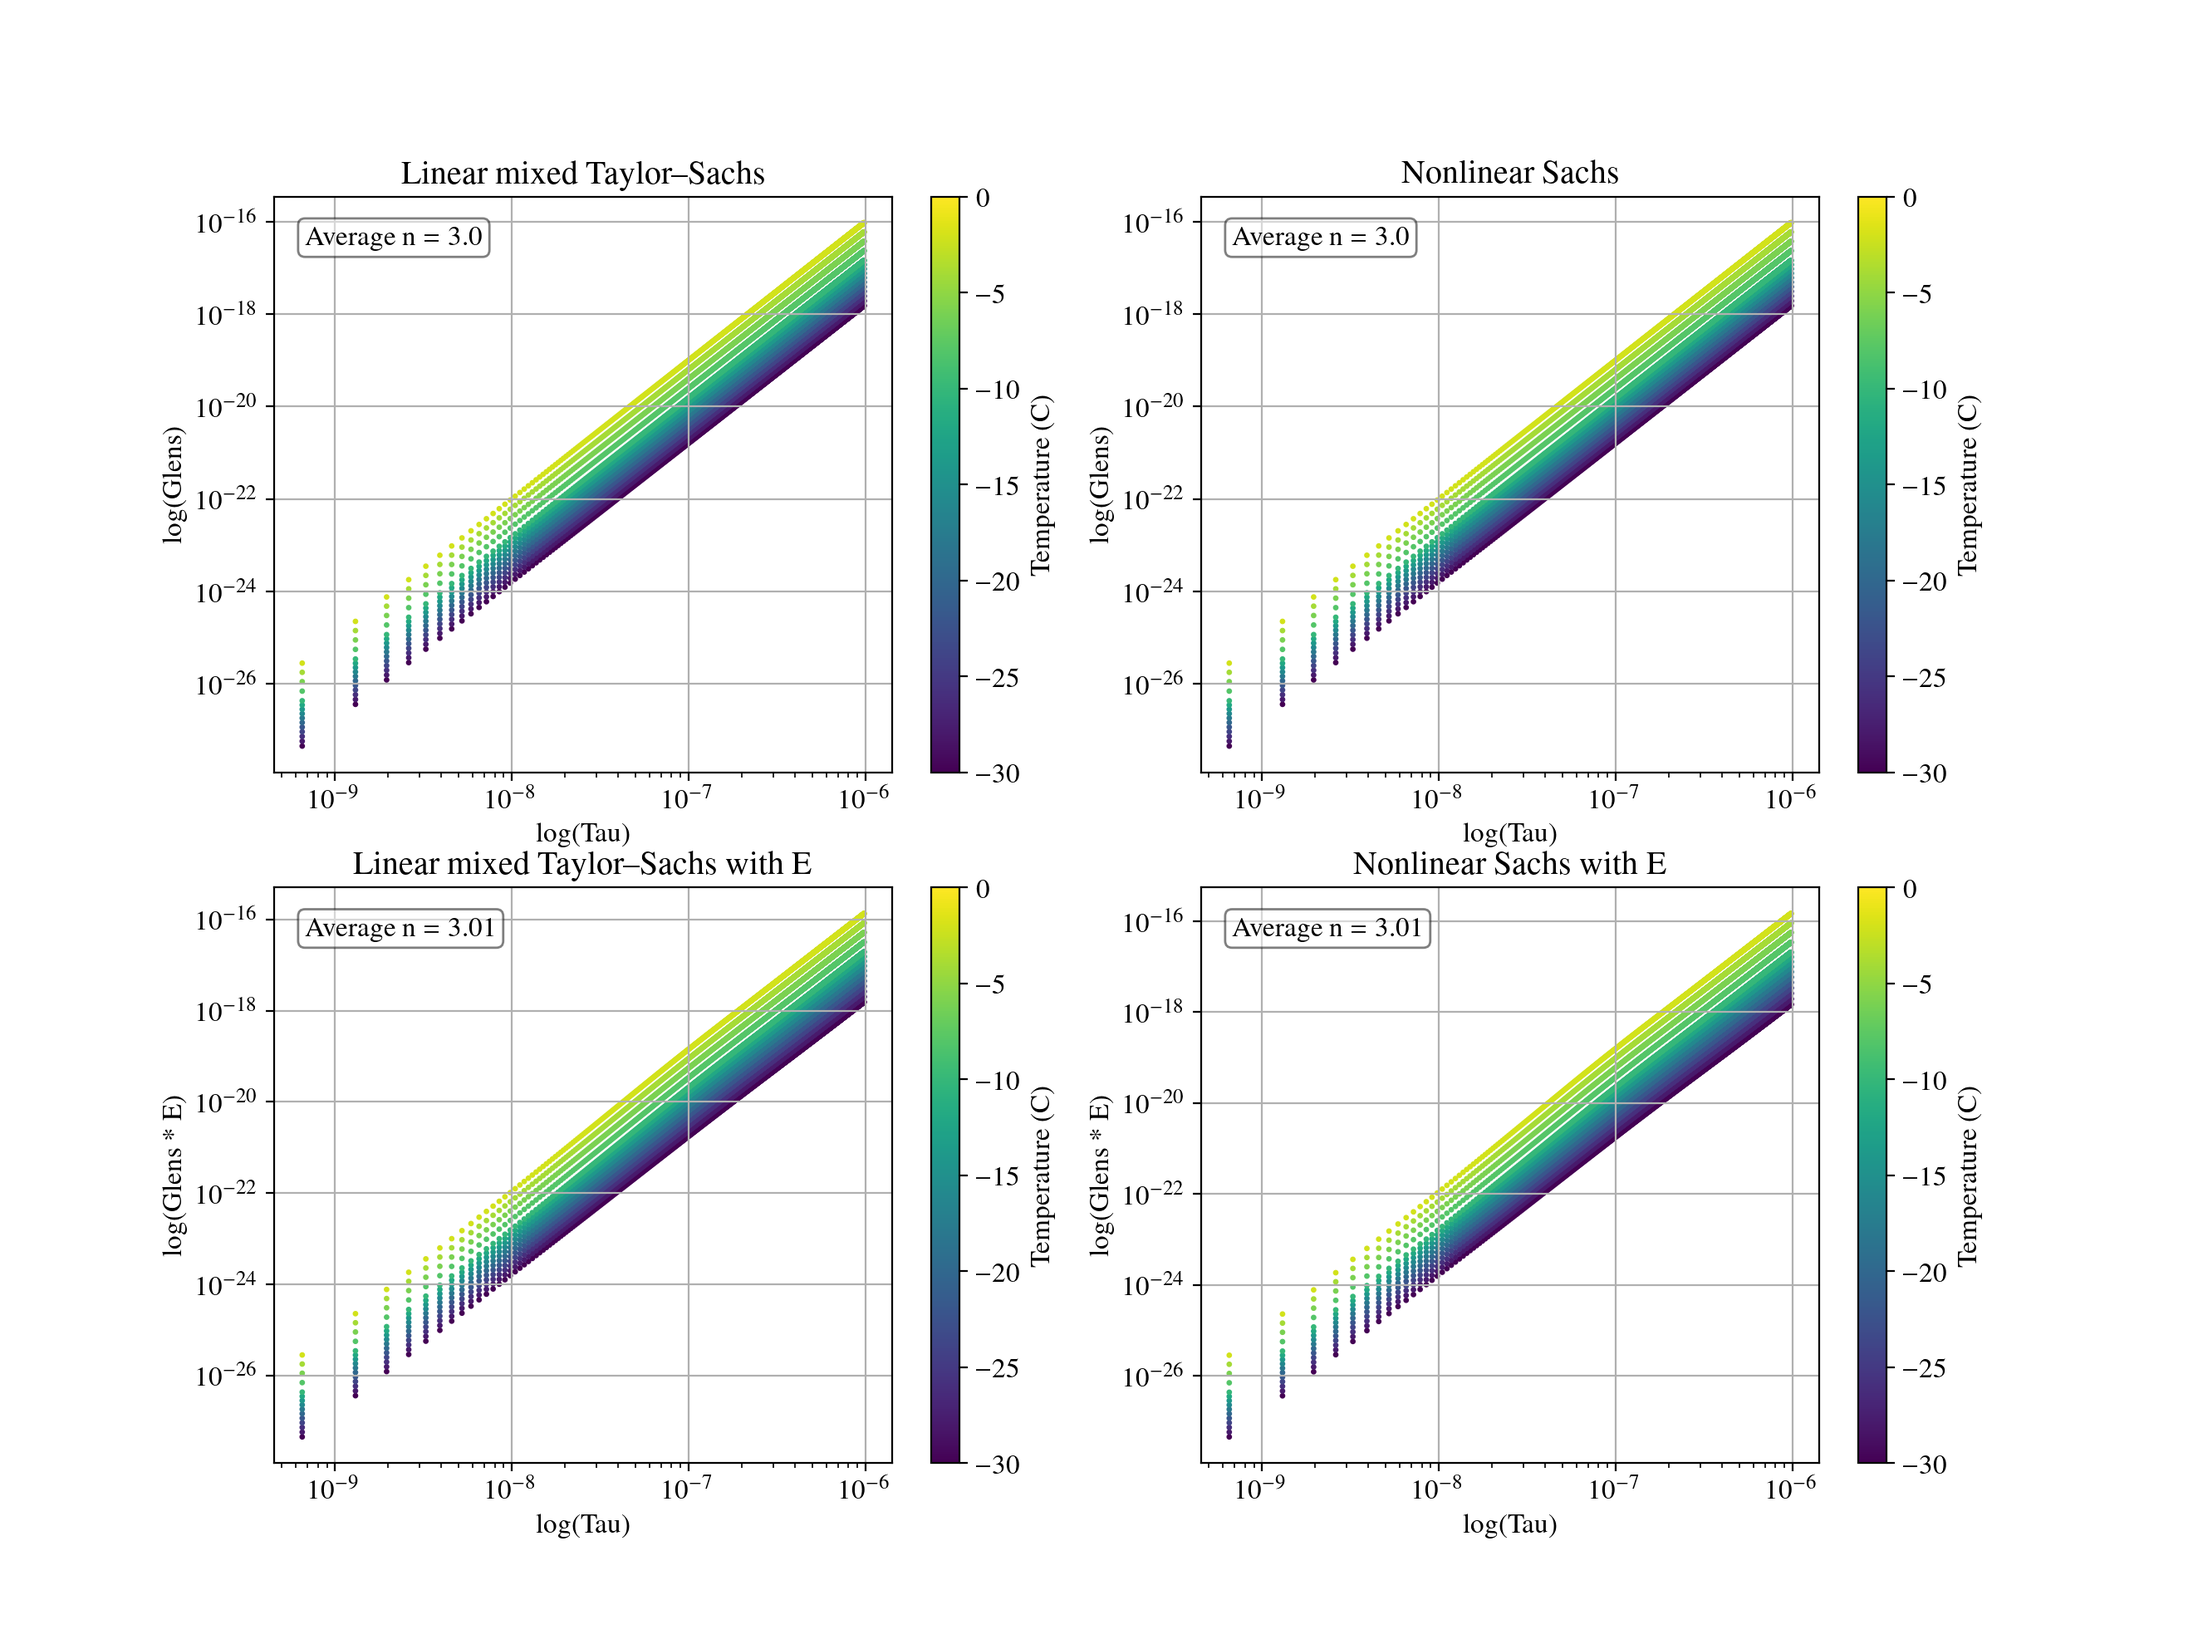
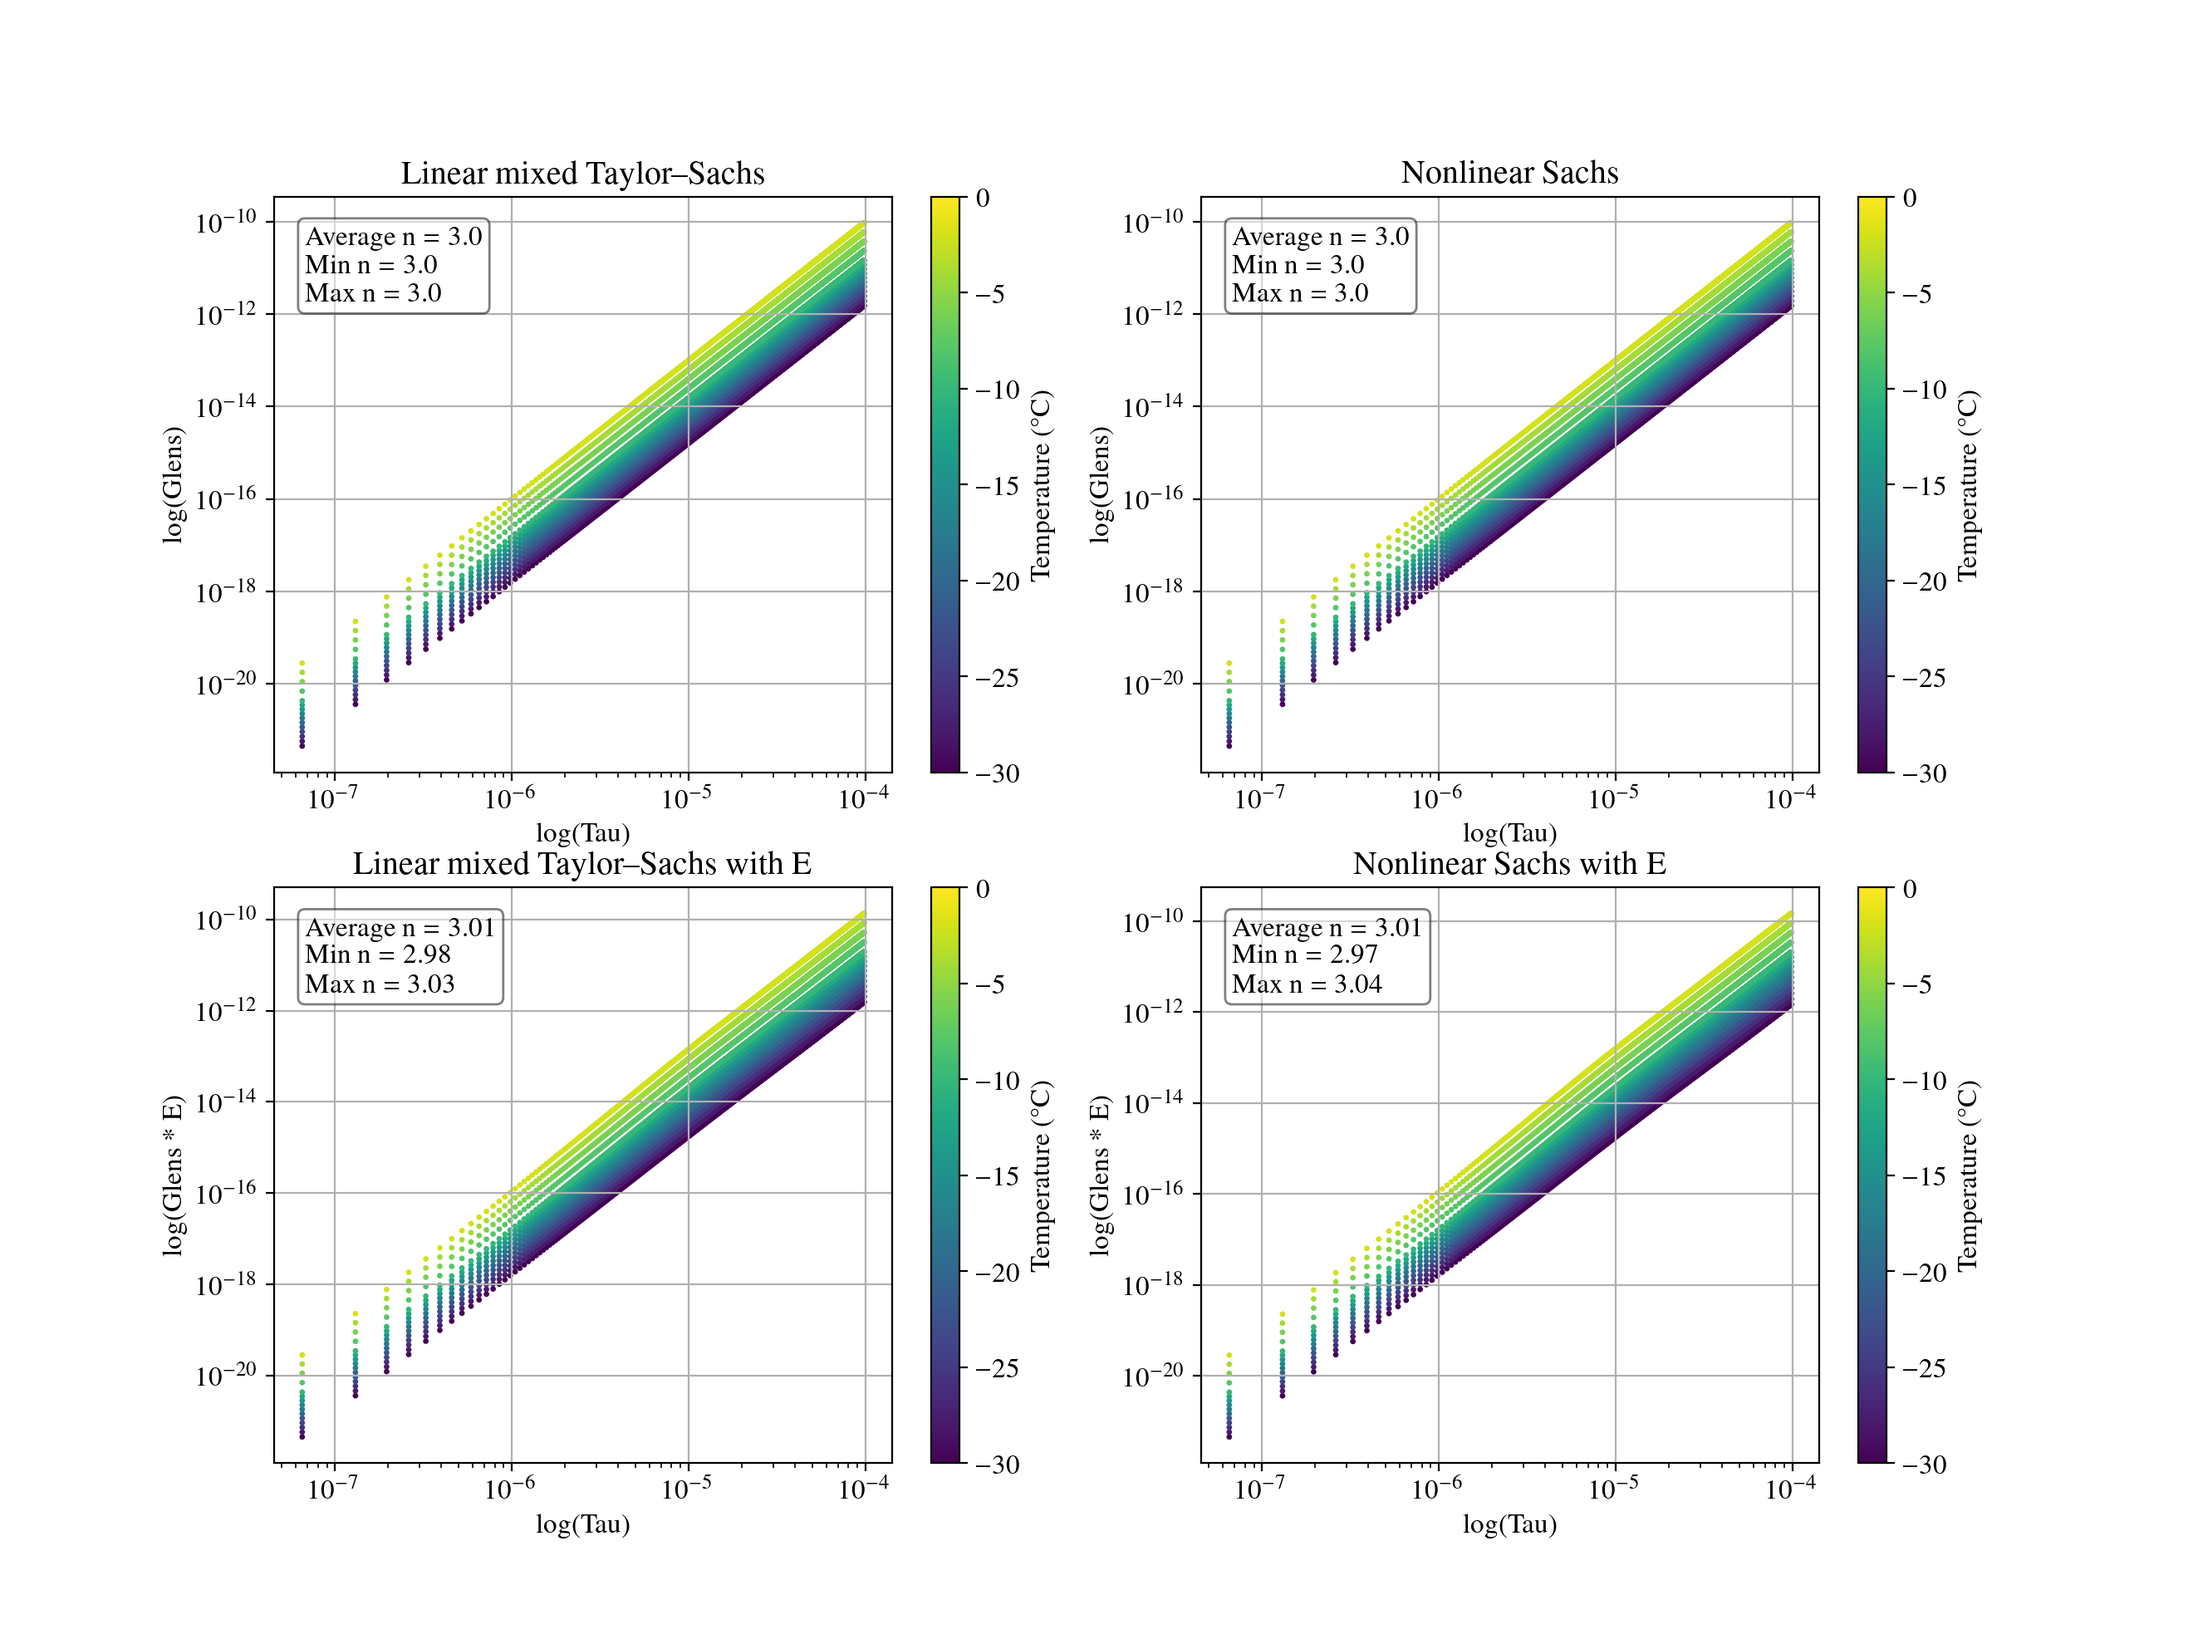
starting shear translation to strain

diff --git a/L20/rh-comp.py b/L20/rh-comp.py
@@ -24,7 +24,7 @@ A0_warm = 1.916e3 * YEAR * 1.0e18
 Q_cold = 60  # kJ / mol
 Q_warm = 139
 
-strain_over_time = 10e5  # per year
+strain_over_time = 10e-5  # per year
 
 Eij_factor = 1
 
@@ -65,9 +65,21 @@ def glen_law(temp, t, n = 3):
 
 
 
+# https://github.com/nicholasmr/specfab/blob/main/src/deformationmodes.f90
+
+'''
+diag([b**((1+r)/2), b**((1-r)/2), b**(-1)])
+'''
+
+def ss_strain(T,angle):
+    return T **( (np.deg2rad(angle) + 1) / 2)
+
+
+
 def plot_experiment_enhancement(ex, T):
     '''
     ex is a list of Experiment objects which have already been generated as an .nc file
+    T is the time the strain was over
 
     '''
 
@@ -94,111 +106,131 @@ def plot_experiment_enhancement(ex, T):
         ax_Elin_E: [],
         ax_Enlin_E: []
     }
+    ax_Elin_data =  None
+    ax_Enlin_data = None
+    ax_Elin_E_data   =  None
+    ax_Enlin_E_data = None
 
     for x in ex:
-
-        df = x.get_dataframe()
-
-        def plot_enhancements(ax, Eij, df, colorbar_made = colorbar_made, use_Eij = True):
-            df.strain = np.abs(df.strain)
-
-            df['tau'] = df.strain / T
-            #df['nondistinct_tau'] = np.array([df.tau[len(df.tau) - 1]] * len(df.strain))
-
-
-            x_ = df['tau']
-            if use_Eij == "exponent":
-                ax.set_ylabel('log(Glens where n=3+E)')
-                df['glens'] = glen_law(x.temp, df['tau'], n=3 + Eij)
-                y_ =  df['glens']
-            elif use_Eij:
-                ax.set_ylabel('log(Glens * E)')
-                df['glens'] = glen_law(x.temp, df['tau'])
-                y_ =  df['glens'] * (Eij * Eij_factor)
-            else:
-                ax.set_ylabel('log(Glens)')
-                df['glens'] = glen_law(x.temp, df['tau'])
-                y_ =  df['glens'] #* Eij * Eij_factor
-
-            
-            data = ax.scatter(x_, y_, label=str(x.temp) + "°C", c=[x.temp]* len(df.strain), s = 2, norm=colors.Normalize(MIN_TEMP, MAX_TEMP))
-
-            if x.exptype == "ss":
-                ax.set_xlabel('Target Angle')
-            else:
-                ax.set_xlabel('Target Change')
-
         
-            ax.set_xlabel("log(Tau)")
-
-            ax.grid()
-            #ax.legend(fontsize=7)
-            ax.set_xscale('log')
-            ax.set_yscale('log')
-            if not colorbar_made:
-                fig.colorbar(data, label = "Temperature (C)")
-                colorbar_made = True
-
-            m, b = np.polyfit(np.log(x_[1:]), np.log(y_[1:]), 1)
-            current_slopes[ax].append(m)
-
-            return colorbar_made
-        
-        colorbar_made = plot_enhancements(ax_Enlin, df.nonlinear_enhancement, df, use_Eij = False)
-        plot_enhancements(ax_Elin,  df.linear_enhancement, df, use_Eij = False)
-        plot_enhancements(ax_Enlin_E, df.nonlinear_enhancement, df)
-        plot_enhancements(ax_Elin_E,  df.linear_enhancement, df)
+        ax_Elin_data = plot_enhancements(ax_Enlin, 'nonlinear_enhancement', x, T, current_slopes, use_Eij = False)
+        ax_Enlin_data = plot_enhancements(ax_Elin,  'linear_enhancement', x, T, current_slopes, use_Eij = False)
+        ax_Elin_E_data = plot_enhancements(ax_Enlin_E, 'nonlinear_enhancement', x, T, current_slopes)
+        ax_Enlin_E_data = plot_enhancements(ax_Elin_E,  'linear_enhancement', x, T, current_slopes)
 
 
 
     ax_Enlin.set_title(r'Nonlinear Sachs')
     add_slope(ax_Enlin, current_slopes)
-
+    fig.colorbar(ax_Elin_data, label = "Temperature (°C)")
 
     ax_Elin.set_title(r'Linear mixed Taylor--Sachs')
     add_slope(ax_Elin, current_slopes)
+    fig.colorbar(ax_Enlin_data, label = "Temperature (°C)")
 
     ax_Enlin_E.set_title(r'Nonlinear Sachs with E')
     add_slope(ax_Enlin_E, current_slopes)
+    fig.colorbar(ax_Elin_E_data, label = "Temperature (°C)")
 
     ax_Elin_E.set_title(r'Linear mixed Taylor--Sachs with E')
     add_slope(ax_Elin_E, current_slopes)
+    fig.colorbar(ax_Enlin_E_data, label = "Temperature (°C)")
 
 
 
     os.makedirs("output", exist_ok=True)
-    fout = 'output/cache.png'
+    fout = f'output/cache.png'
     print('Saving %s'%(fout))
     plt.savefig(fout, dpi=dpi)
     plt.close('all')
 
 
+
+
 def add_slope(ax, slope_dict):
-    ax.text(.05,.95, "Average n = " + str(round(np.mean(slope_dict[ax]), 2)), transform=ax.transAxes,
-        horizontalalignment='left', verticalalignment='top',
-        bbox=dict(facecolor='white', alpha=0.5, edgecolor='black', boxstyle='round,pad=0.25'))
+    ax.text(.05,.95, "Average n = " + str(round(np.mean(slope_dict[ax]), 2)) + 
+            "\n Min n = " + str(round(np.min(slope_dict[ax]), 2)) +
+            "\n Max n = " + str(round(np.max(slope_dict[ax]), 2)) , 
+            
+            transform=ax.transAxes, horizontalalignment='left', verticalalignment='top',
+            bbox=dict(facecolor='white', alpha=0.5, edgecolor='black', boxstyle='round,pad=0.25'))
+
+
+
+
+def plot_enhancements(ax, Eij, ex, T, slopes, use_Eij = True):
+    df = ex.get_dataframe()
+    df.strain = np.abs(df.strain)
+    print(df[Eij])
+    if ex.exptype != "ss":
+        df['tau'] = df.strain * T
+    else:
+        df['tau'] = ss_strain(T, df.strain)
+        
+    #df['nondistinct_tau'] = np.array([df.tau[len(df.tau) - 1]] * len(df.strain))
+
+
+    x_ = df['tau']
+    if use_Eij == "exponent":
+        ax.set_ylabel('log(Glens where n=3+E)')
+        df['glens'] = glen_law(ex.temp, df['tau'], n=4 * df[Eij])
+        y_ =  df['glens']
+    elif use_Eij:
+        ax.set_ylabel('log(Glens * E)')
+        df['glens'] = glen_law(ex.temp, df['tau'])
+        y_ =  df['glens'] * (df[Eij] * Eij_factor)
+    else:
+        ax.set_ylabel('log(Glens)')
+        df['glens'] = glen_law(ex.temp, df['tau'])
+        y_ =  df['glens'] #* Eij * Eij_factor
+
+    
+    data = ax.scatter(x_, y_, label=str(ex.temp) + "°C", c=[ex.temp]* len(df.strain), s = 2, norm=colors.Normalize(MIN_TEMP, MAX_TEMP))
+
+    if ex.exptype == "ss":
+        ax.set_xlabel('Target Angle')
+    else:
+        ax.set_xlabel('Target Change')
+
+
+    ax.set_xlabel("log(Tau)")
+
+    ax.grid()
+    #ax.legend(fontsize=7)
+    ax.set_xscale('log')
+    ax.set_yscale('log')
+
+    m, b = np.polyfit(np.log(x_[1:]), np.log(y_[1:]), 1)
+    slopes[ax].append(m)
+
+    return data
 
 
 
 scope = []
 
-EXP = "ue"
+EXP = ["uc", "ss", "cc", "ue"]
+CC = ["cc"]
+SS = ["ss"]
+UE = ["ue"]
+UC = ["uc"]
+
 TEMPS = []
 for x in range(MIN_TEMP, MAX_TEMP, 2):
     TEMPS.append(x)
 
 
+for x in SS:
+    for tem in TEMPS:
+        print(x, tem)
+        
+        if x != "ss" :
+            e1 = Experiment(x, "zz", temp = tem) 
+        else:
+            e1 = Experiment(x, "xz", temp = tem) 
 
-for tem in TEMPS:
-    print(EXP, tem)
-    
-    if EXP != "ss" :
-        e1 = Experiment(EXP, "zz", temp = tem) 
-    else:
-        e1 = Experiment(EXP, "xz", temp = tem) 
-
-    print(f"GAMMA: {e1.Gamma}, LAMD: 0.15, TEMP: {e1.temp}, EXP: {e1.exptype}")
-    scope.append(e1)
+        print(f"GAMMA: {e1.Gamma}, LAMD: 0.15, TEMP: {e1.temp}, EXP: {e1.exptype}")
+        scope.append(e1)
 
 
 #e1 = Experiment("ss", "xz", temp = -30) 

diff --git a/L20/L20.py b/L20/L20.py
@@ -29,7 +29,7 @@ def run(action, exptypes = EXP_TYPES, temps = TEMPS):
 
 
 def create_ncs(experiment):
-    experiment.generate_file(remake=False)
+    experiment.generate_file(remake=True)
 
 
 def create_images(experiment):
@@ -37,7 +37,7 @@ def create_images(experiment):
 
 
 def main():
-    run(create_ncs, EXP_TYPES, TEMPS)
+    run(create_ncs, ['ss'], TEMPS)
     #run(create_images, EXP_TYPES, TEMPS)
 
 main()
